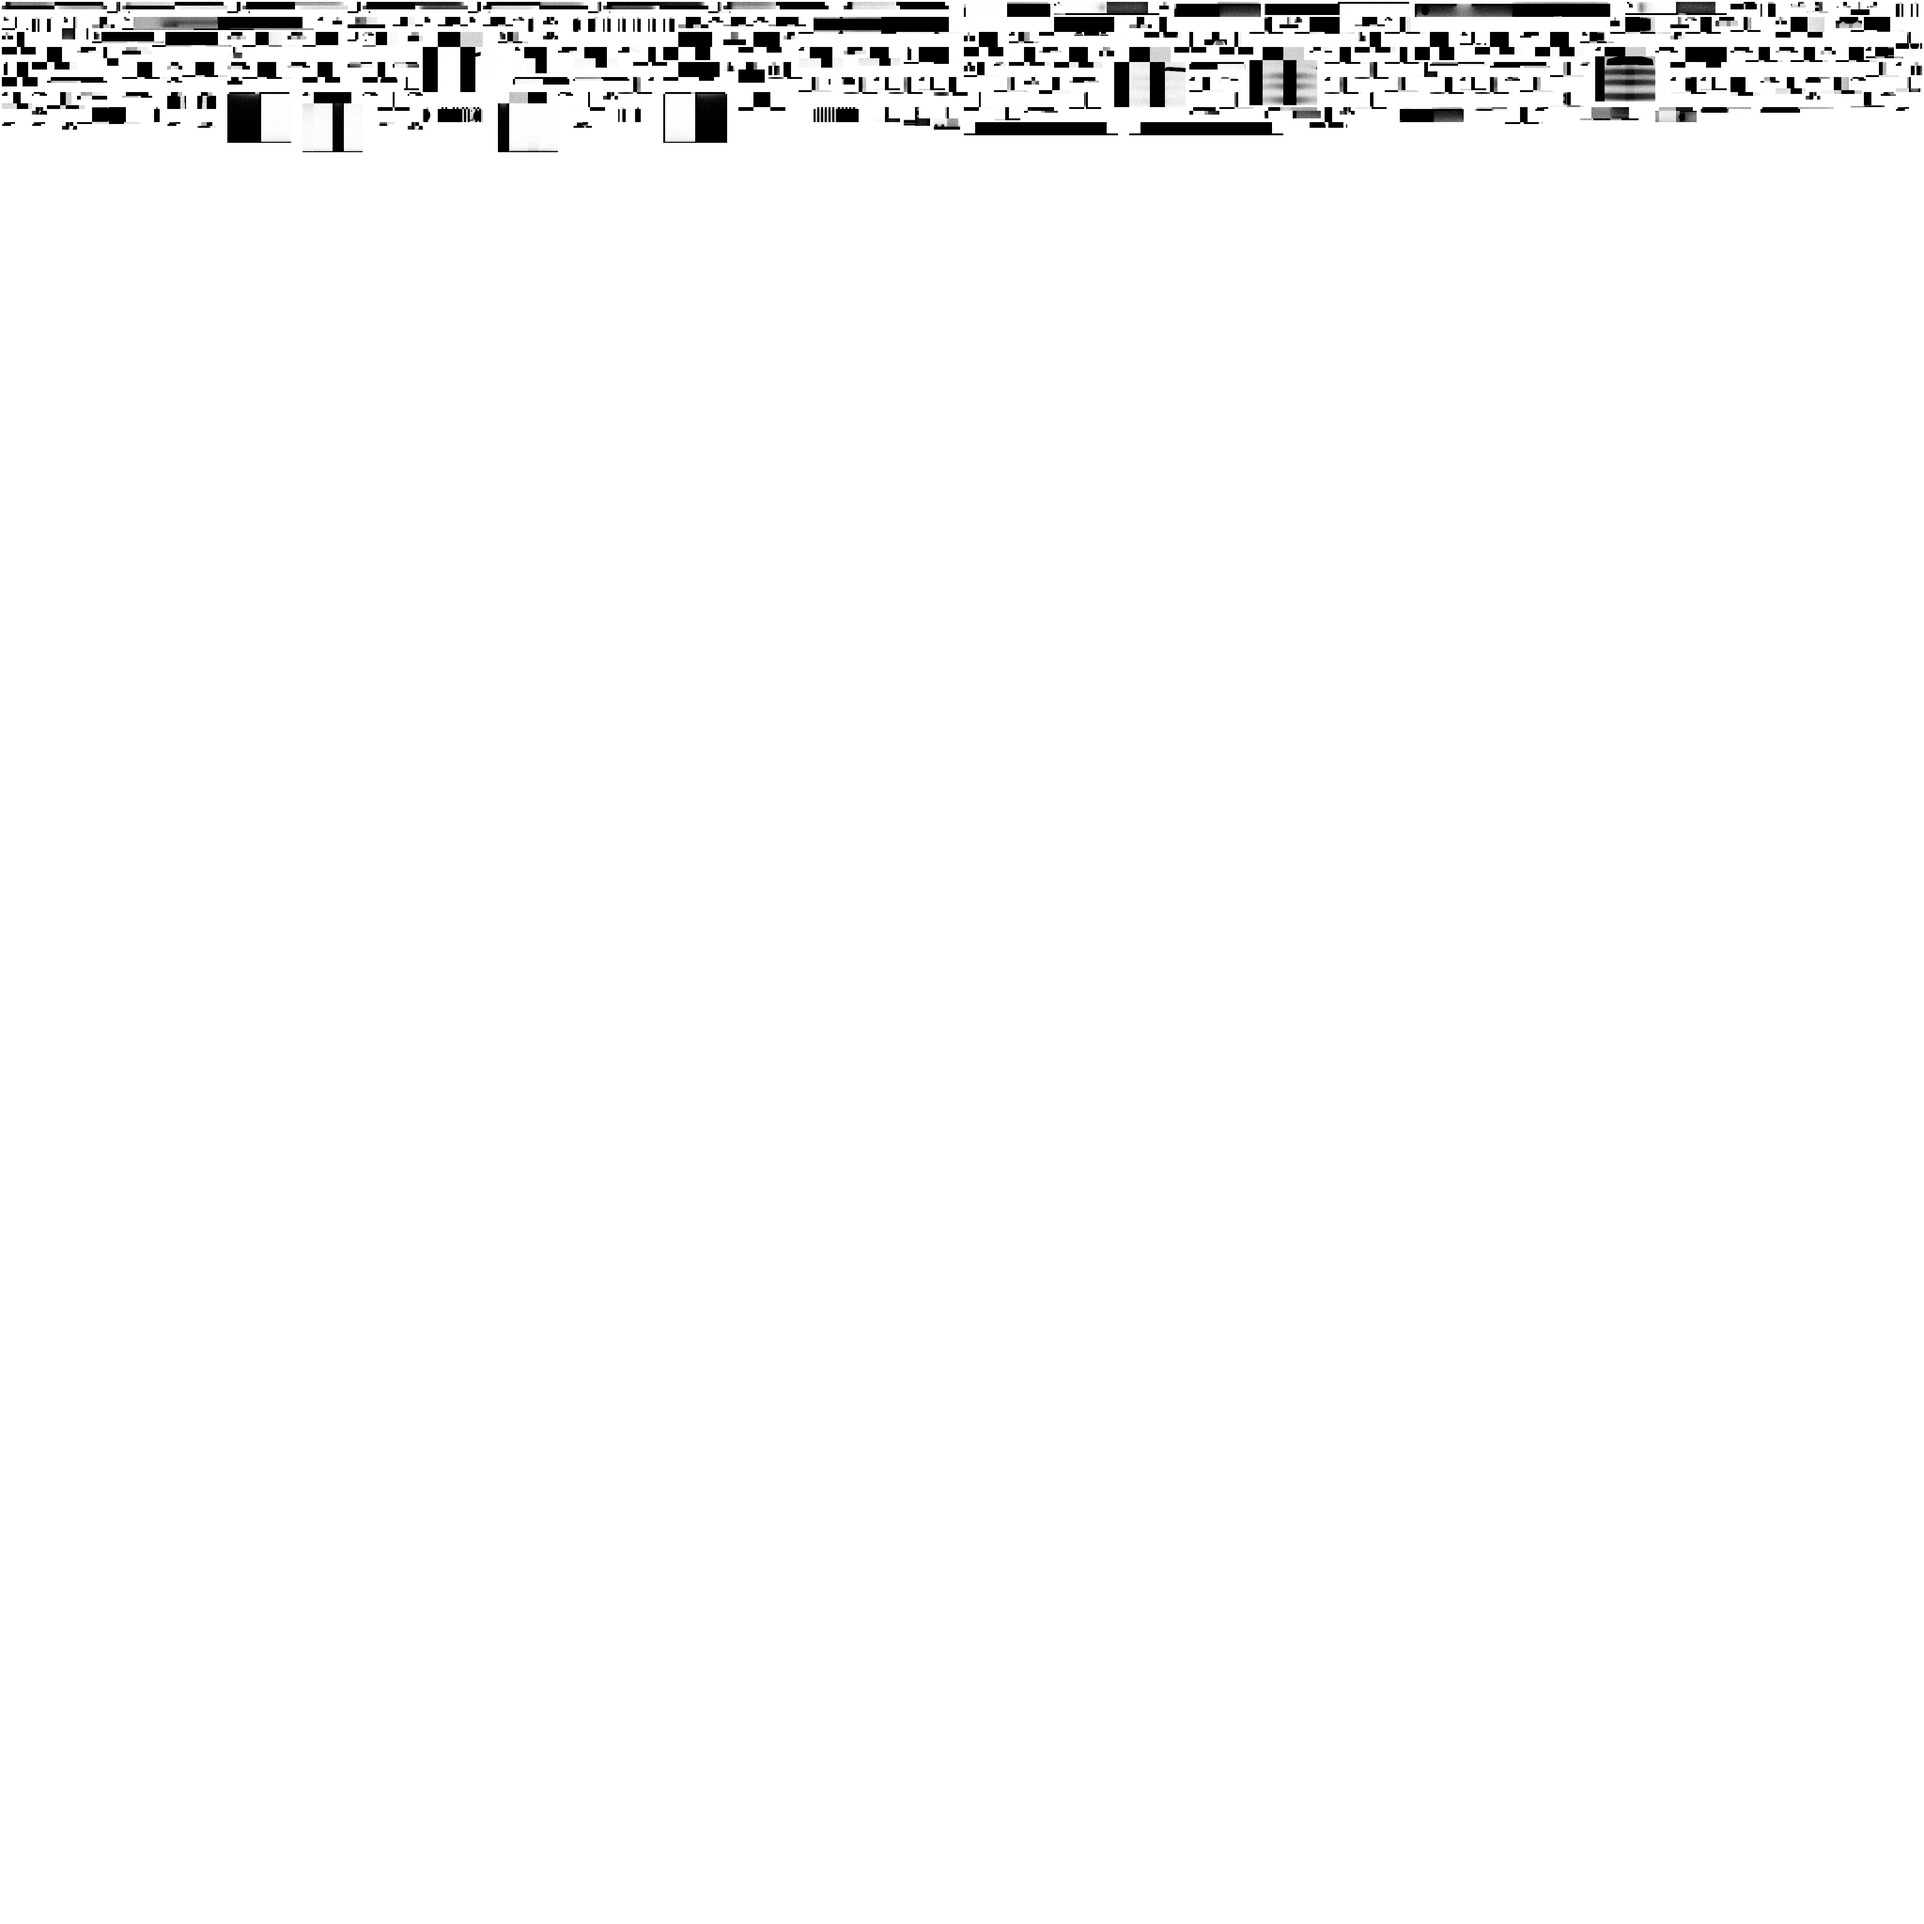
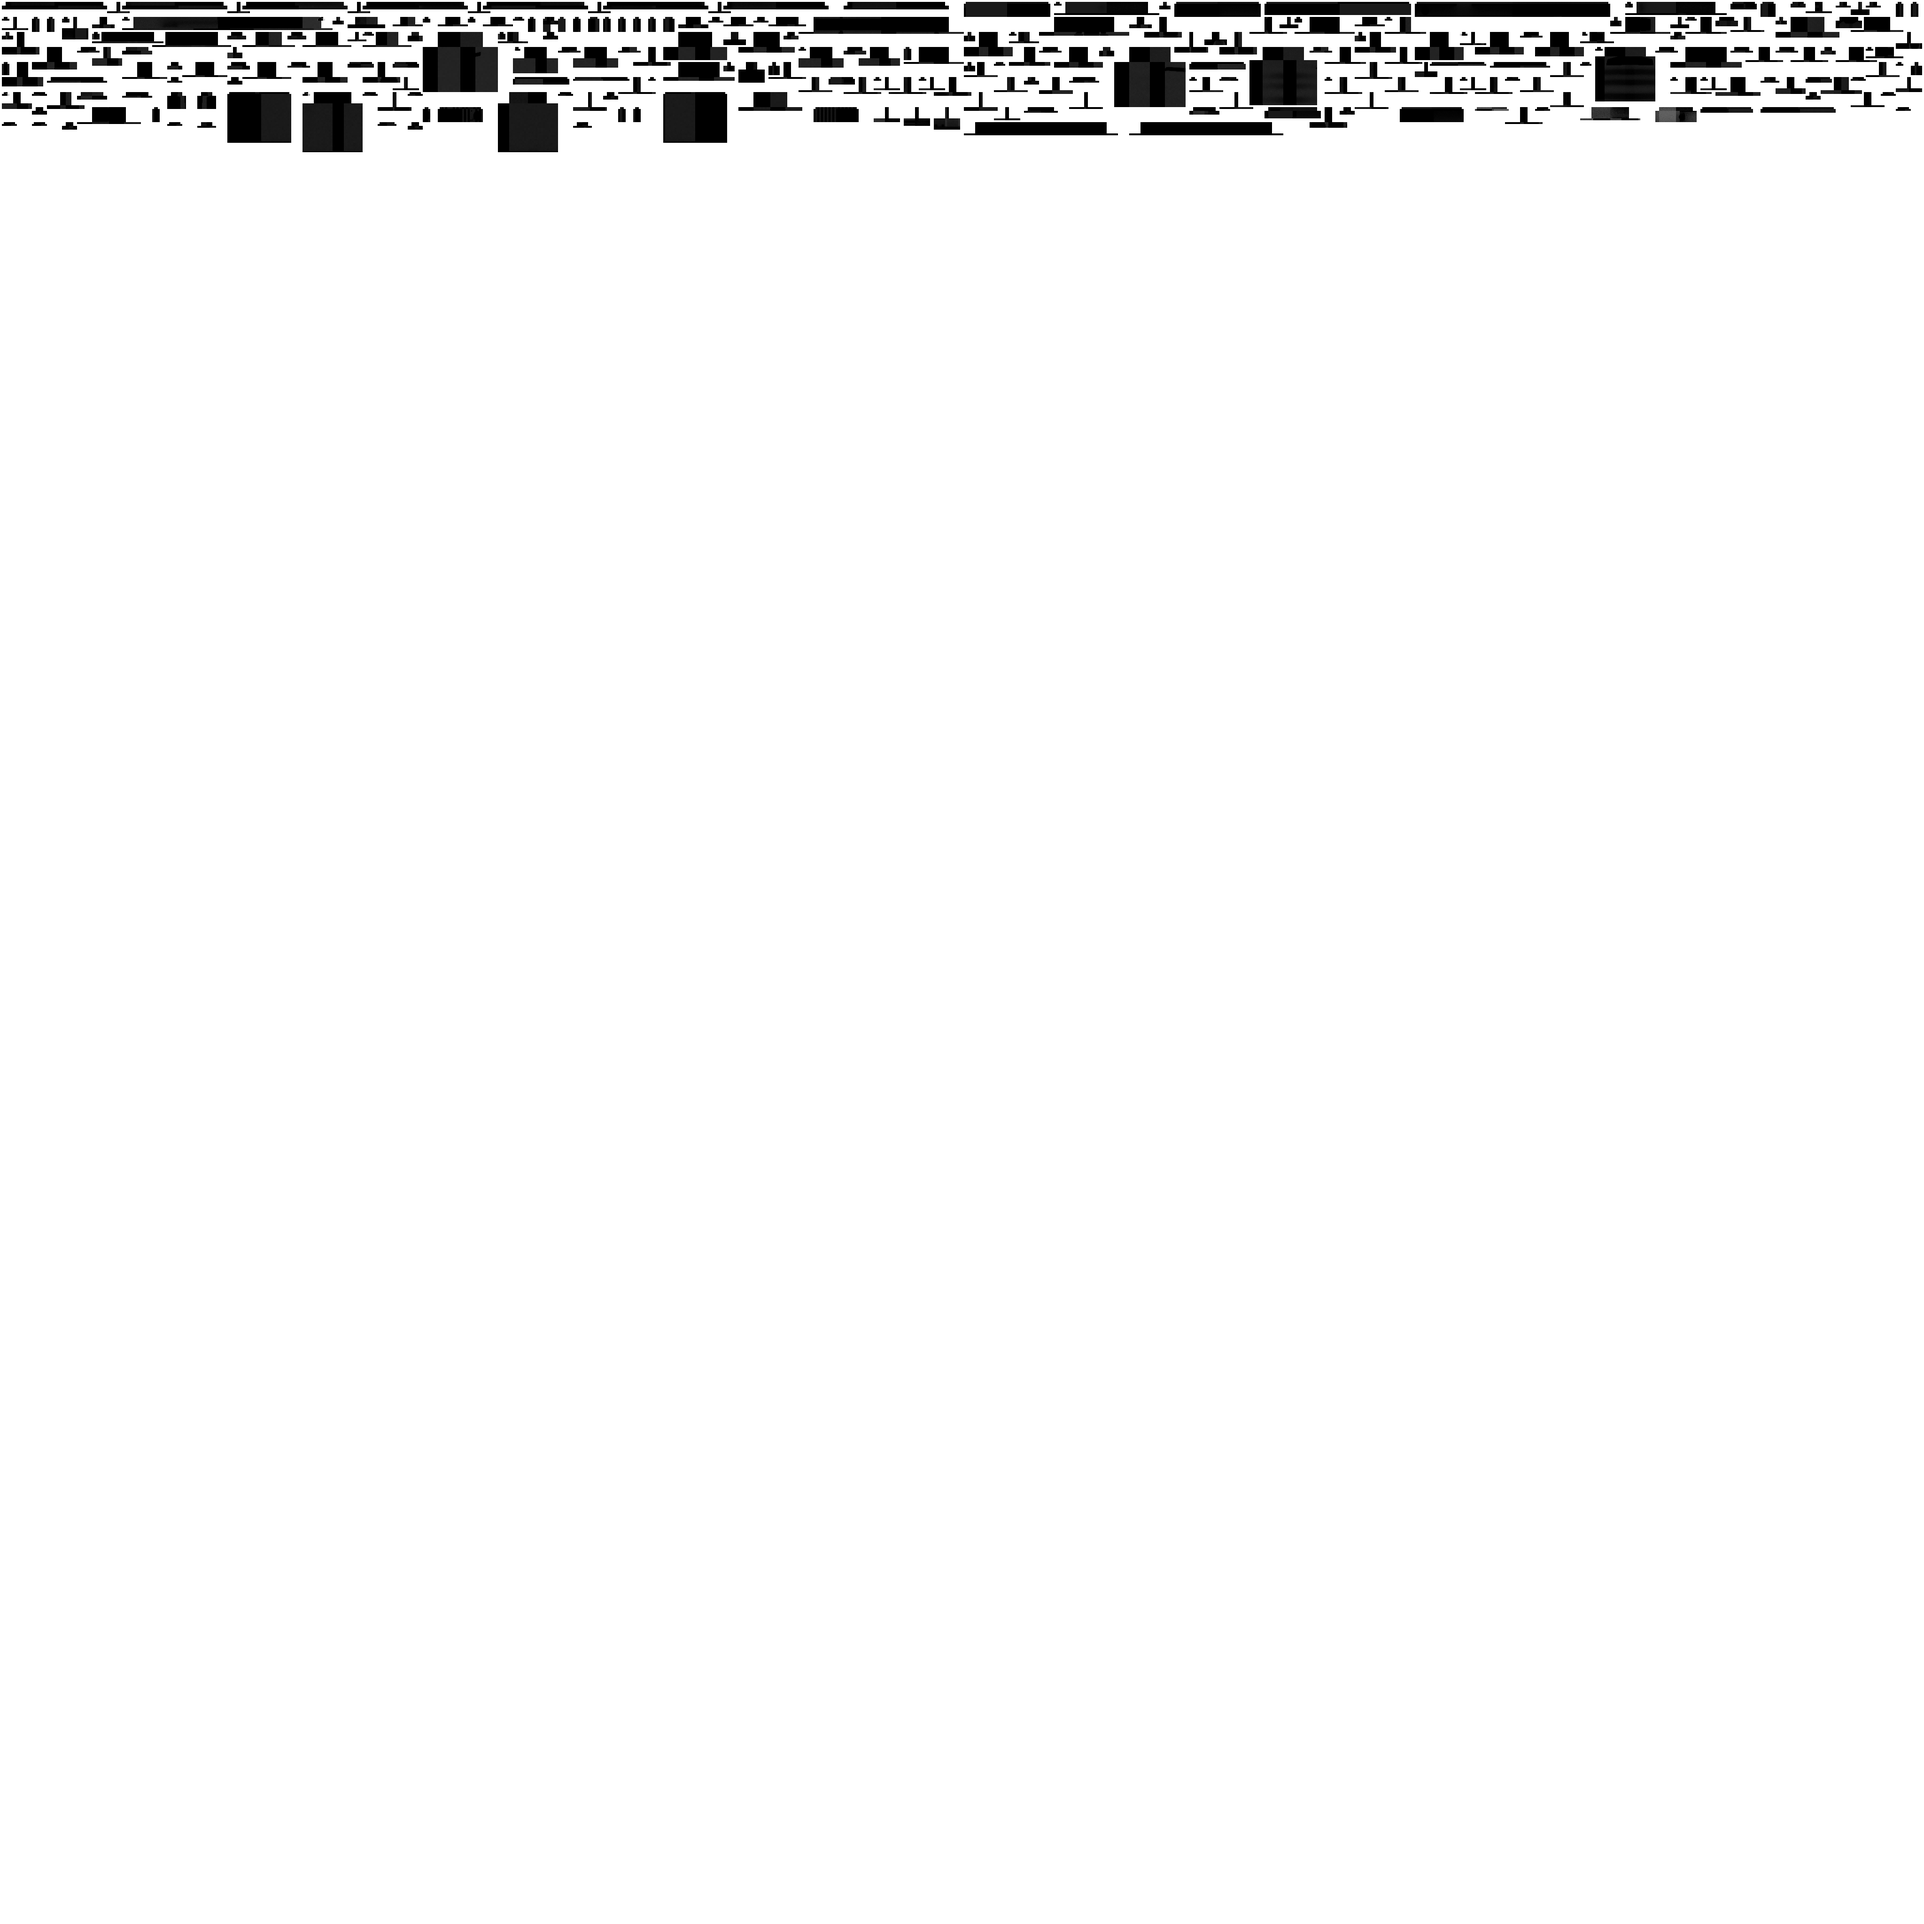
skin stuff

Changed region(s): [[0.0, 0.0, 0.4688, 0.0938], [0.5, 0.0, 0.8125, 0.0625], [0.8125, 0.0, 0.9688, 0.0625]]

diff --git a/src/main/java/com/modularwarfare/common/armor/ItemMWArmor.java b/src/main/java/com/modularwarfare/common/armor/ItemMWArmor.java
@@ -5,14 +5,21 @@ import javax.annotation.Nullable;
 import com.modularwarfare.ModConfig;
 import com.modularwarfare.ModularWarfare;
 import com.modularwarfare.client.model.ModelArmor;
+import com.modularwarfare.common.guns.AttachmentEnum;
+import com.modularwarfare.common.guns.GunType;
+import com.modularwarfare.common.guns.ItemAttachment;
+import com.modularwarfare.common.guns.ItemGun;
 import com.modularwarfare.common.type.BaseType;
 
 import net.minecraft.client.model.ModelBiped;
 import net.minecraft.entity.Entity;
 import net.minecraft.entity.EntityLivingBase;
+import net.minecraft.entity.player.EntityPlayer;
 import net.minecraft.inventory.EntityEquipmentSlot;
 import net.minecraft.item.ItemArmor;
 import net.minecraft.item.ItemStack;
+import net.minecraft.nbt.NBTTagCompound;
+import net.minecraft.world.World;
 import net.minecraftforge.fml.relauncher.Side;
 import net.minecraftforge.fml.relauncher.SideOnly;
 
@@ -40,9 +47,30 @@ public class ItemMWArmor extends ItemArmor {
 	}
 	
 	@Override
+    public void onUpdate(ItemStack unused, World world, Entity holdingEntity, int intI, boolean flag)
+    {
+		if(holdingEntity instanceof EntityPlayer)
+		{
+			EntityPlayer entityPlayer = (EntityPlayer) holdingEntity;
+
+			if(unused!= null && unused.getItem() instanceof ItemMWArmor)
+			{				
+				if(unused.getTagCompound() == null)
+				{
+					NBTTagCompound nbtTagCompound = new NBTTagCompound();
+					nbtTagCompound.setInteger("skinId", 0);
+					unused.setTagCompound(nbtTagCompound);
+				}
+			}	
+		}
+    }
+	
+	@Override
 	public String getArmorTexture(ItemStack stack, Entity entity, EntityEquipmentSlot slot, String armourType)
 	{
-		return ModularWarfare.MOD_ID + ":skins/" + (ModConfig.INSTANCE.detailedSkins ? "hd" : "default") + "/armor/" + type.modelSkins[0].getSkin() + ".png";
+		int skinId = stack.getTagCompound().getInteger("skinId");
+		String path = skinId > 0 ? "skins/" + type.modelSkins[skinId].getSkin() : type.modelSkins[0].getSkin();
+		return ModularWarfare.MOD_ID + ":skins/" + (ModConfig.INSTANCE.detailedSkins ? "hd" : "default") + "/armor/" + path + ".png";
 	}
 	
 	@Override
@@ -72,5 +100,11 @@ public class ItemMWArmor extends ItemArmor {
 		}
 		return null;
 	}
+	
+	@Override
+    public boolean getShareTag()
+    {
+        return true;
+    }
 
 }

diff --git a/src/main/java/com/modularwarfare/common/guns/ItemGun.java b/src/main/java/com/modularwarfare/common/guns/ItemGun.java
@@ -75,16 +75,12 @@ public class ItemGun extends BaseItem {
 				{
 					NBTTagCompound nbtTagCompound = new NBTTagCompound();
 					nbtTagCompound.setString("firemode", gunType.fireModes[0].name().toLowerCase());
+					nbtTagCompound.setInteger("skinId", 0);
 					heldStack.setTagCompound(nbtTagCompound);
 					if(gunType.acceptedAttachments.get(AttachmentEnum.Sight) != null && gunType.acceptedAttachments.get(AttachmentEnum.Sight).size() >= 1)
 					{
-						System.out.println(gunType.acceptedAttachments.get(AttachmentEnum.Sight).get(0));
 						ItemAttachment itemAttachment = ModularWarfare.attachmentTypes.get(gunType.acceptedAttachments.get(AttachmentEnum.Sight).get(0));
-						System.out.println(itemAttachment != null);
 						GunType.addAttachment(heldStack, AttachmentEnum.Sight, new ItemStack(itemAttachment));
-					} else
-					{
-						System.out.println("called");
 					}
 				}
 			}	

diff --git a/src/main/java/com/modularwarfare/client/model/RenderGun.java b/src/main/java/com/modularwarfare/client/model/RenderGun.java
@@ -186,7 +186,10 @@ public class RenderGun extends CustomItemRenderer {
 				float f = 1F / 16F;
 				float modelScale = model.modelScale;
 				
-				bindTexture("guns", gunType.modelSkins[0].getSkin());
+				/** Weapon Texture */
+				int skinId = item.getTagCompound().getInteger("skinId");
+				String path = skinId > 0 ? "skins/" + gunType.modelSkins[skinId].getSkin() : gunType.modelSkins[0].getSkin();
+				bindTexture("guns", path);
 
 				GL11.glScalef(modelScale, modelScale, modelScale);
 				

diff --git a/src/main/java/com/modularwarfare/client/model/CustomItemRenderer.java b/src/main/java/com/modularwarfare/client/model/CustomItemRenderer.java
@@ -24,6 +24,7 @@ public class CustomItemRenderer
 	public void bindTexture(String type, String fileName)
 	{
 		String pathFormat = "skins/%s/%s/%s.png";
+		String pathFormatSkins = "skins/%s/%s/%s.png";
 		try
 		{
 			ResourceLocation resourceLocation = new ResourceLocation(ModularWarfare.MOD_ID,
